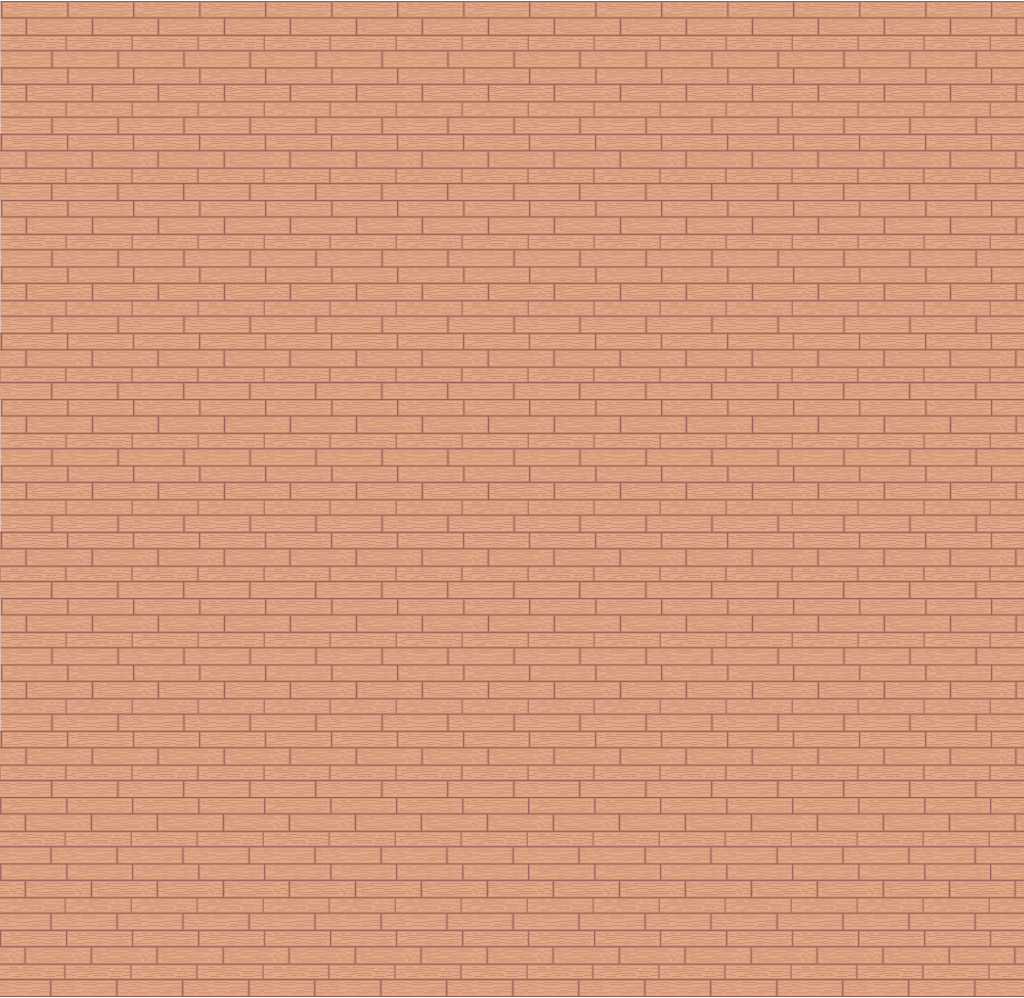
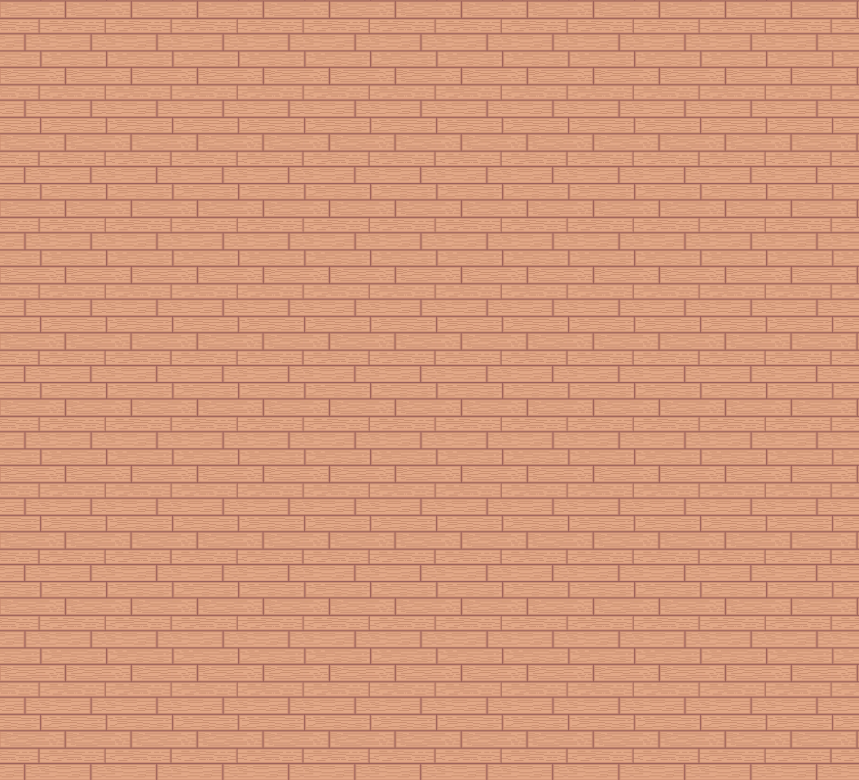
adding spites on scene

Changed region(s): [[0.0, 0.4, 1.0, 1.0], [0.0, 0.0, 1.0, 0.3692]]

diff --git a/client/main_window.cpp b/client/main_window.cpp
@@ -77,15 +77,18 @@ void main_window::already_connected() {
 
 void main_window::connect_with_room(std::vector<std::string> data) {
     std::this_thread::sleep_for(std::chrono::milliseconds(100));
+    current_user.set_user_sprite();
 
-    scene->setSceneRect(-250, -250, 500, 500);
+    //client_user->user_sprite = new sprite(client_user->name());
+
+    scene->setSceneRect(0, 0, 500, 500);
 
     for (int i = 1; i < data.size(); i += 3) {
         if (data[i] != current_user.name()) {
             client_user u(data[i], "psw", stoi(data[i + 1]), stoi(data[i + 2]));
             users_in_the_room[data[i]] = u;
-            users_in_the_room[data[i]].user_sprite->setRect(
-                stoi(data[i + 1]), stoi(data[i + 2]), 30, 30);
+            //users_in_the_room[data[i]].user_sprite->setRect(
+                //stoi(data[i + 1]), stoi(data[i + 2]), 30, 30);
             users_in_the_room[data[i]].user_sprite->name_display->setPlainText(
                 QString(users_in_the_room[data[i]].name().c_str()));
             users_in_the_room[data[i]].user_sprite->name_display->setPos(
@@ -96,7 +99,8 @@ void main_window::connect_with_room(std::vector<std::string> data) {
         }
     }
 
-    current_user.user_sprite->setRect(0, 0, 30, 30);
+    //current_user.user_sprite->setPixmap(QPixmap(":/images/pikachu_sprite.png"));
+    //current_user.user_sprite->setRect(0, 0, 30, 30);
     current_user.user_sprite->name_display->setPlainText(
         QString(current_user.name().c_str()));
     current_user.user_sprite->name_display->setPos(0, -20);
@@ -107,7 +111,8 @@ void main_window::connect_with_room(std::vector<std::string> data) {
     current_user.user_sprite->setFocus();
 
     QGraphicsView *view = ui->room_view;
-    scene->setBackgroundBrush(Qt::blue);
+    qDebug() << (":/images/floor.png");
+    scene->setBackgroundBrush(QBrush(QImage(":/images/floor.png")));
     view->setFixedSize(600, 550);
     view->setScene(scene);
 }
@@ -126,7 +131,7 @@ void main_window::roommate_disconnect(const std::string &roommate_name) {
 void main_window::roommate_connect(const std::string &roommate_name) {
     client_user u(roommate_name, "pwd", 0, 0);
     users_in_the_room[roommate_name] = u;
-    u.user_sprite->setRect(0, 0, 30, 30);
+    //u.user_sprite->setRect(0, 0, 30, 30);
     u.user_sprite->name_display->setPlainText(QString(roommate_name.c_str()));
     u.user_sprite->name_display->setPos(0, -20);
     scene->addItem(u.user_sprite);

diff --git a/client/sprite.cpp b/client/sprite.cpp
@@ -9,6 +9,7 @@ extern QTcpSocket *remote_server;
 extern client_processor processor;
 
 sprite::sprite(const std::string &name) : name(name) {
+    setPixmap(QPixmap(":/images/kermit_sprite_small.png"));
     // name_display->setPlainText(QString("a"));
     // name_display->setPlainText(QString("aa"));
 }
@@ -16,22 +17,22 @@ sprite::sprite(const std::string &name) : name(name) {
 void sprite::keyPressEvent(QKeyEvent *event) {
     switch (event->key()) {
         case Qt::Key_Up:
-            if (pos().y() > -250){
+            if (pos().y() > -5){
                 change_position(STEP_SIZE, this, directions::UP);
             }
             break;
         case Qt::Key_Down:
-            if (pos().y() < 230){
+            if (pos().y() < 455){
                 change_position(STEP_SIZE, this, directions::DOWN);
             }
             break;
         case Qt::Key_Left:
-            if (pos().x() > -290){
+            if (pos().x() > -45){
                 change_position(STEP_SIZE, this, directions::LEFT);
             }
             break;
         case Qt::Key_Right:
-            if (pos().x() < 255){
+            if (pos().x() < 490){
                 change_position(STEP_SIZE, this, directions::RIGHT);
             }
             break;

diff --git a/client/client_user.cpp b/client/client_user.cpp
@@ -5,15 +5,20 @@ client_user::client_user() : user("noname", "defaulpassword") {
 
 client_user::client_user(std::string uname, std::string upwd)
     : user(uname, upwd) {
-    user_sprite->setRect(0, 0, 30, 30);
+    //user_sprite->setRect(0, 0, 30, 30);
     // user_sprite->name_display->setPlainText((QString("uname")));
-    user_sprite->name_display->setPos(30, 30);
+    //user_sprite->name_display->setPos(30, 30);
 }
 
 client_user::client_user(std::string uname, std::string upwd, int x, int y)
     : user(uname, upwd, x, y) {
     // user_sprite->setRect(0, 0, 30, 30);
     // user_sprite->setRect(0, 0, 30, 30);
+}
+
+void client_user::set_user_sprite()
+{
+    this->user_sprite = new sprite(this->name());
 }
 
 client_user::~client_user() {

diff --git a/client/client_user.h b/client/client_user.h
@@ -9,7 +9,8 @@ public:
     client_user();
     client_user(std::string uname, std::string upwd);
     client_user(std::string uname, std::string upwd, int x, int y);
-    sprite *user_sprite = new sprite(this->name());
+    void set_user_sprite();
+    sprite *user_sprite;
     ~client_user();
 
 private:

diff --git a/client/sprite.h b/client/sprite.h
@@ -7,7 +7,7 @@
 
 enum class directions { UP, DOWN, LEFT, RIGHT };
 
-class sprite : public QObject, public QGraphicsRectItem {
+class sprite : public QObject, public QGraphicsPixmapItem {
     Q_OBJECT
 
 public:
